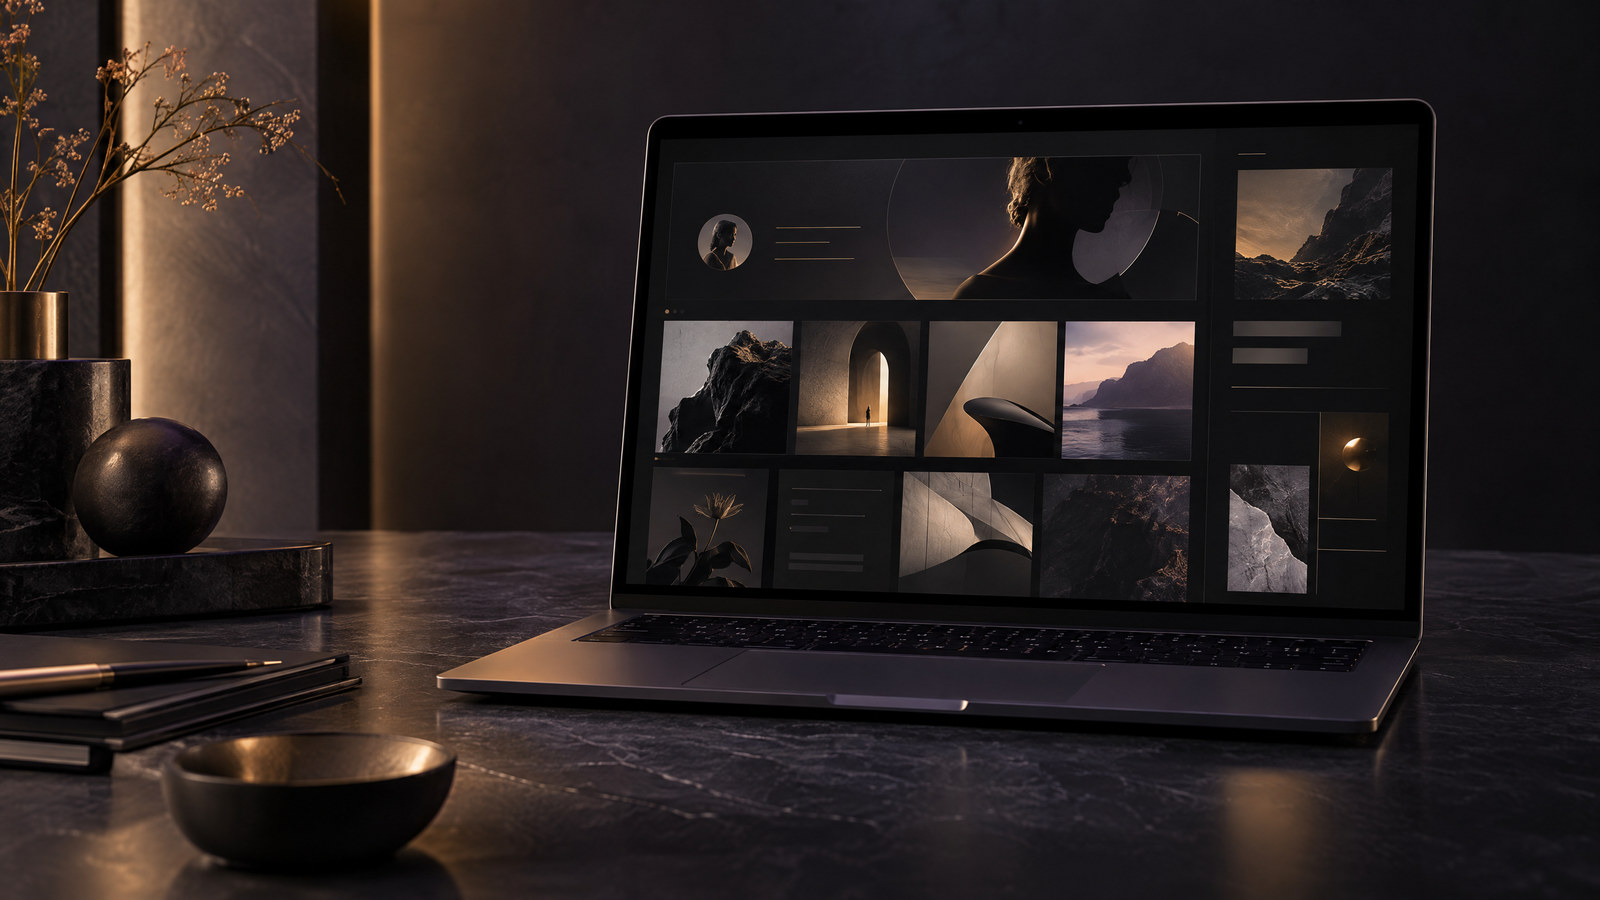
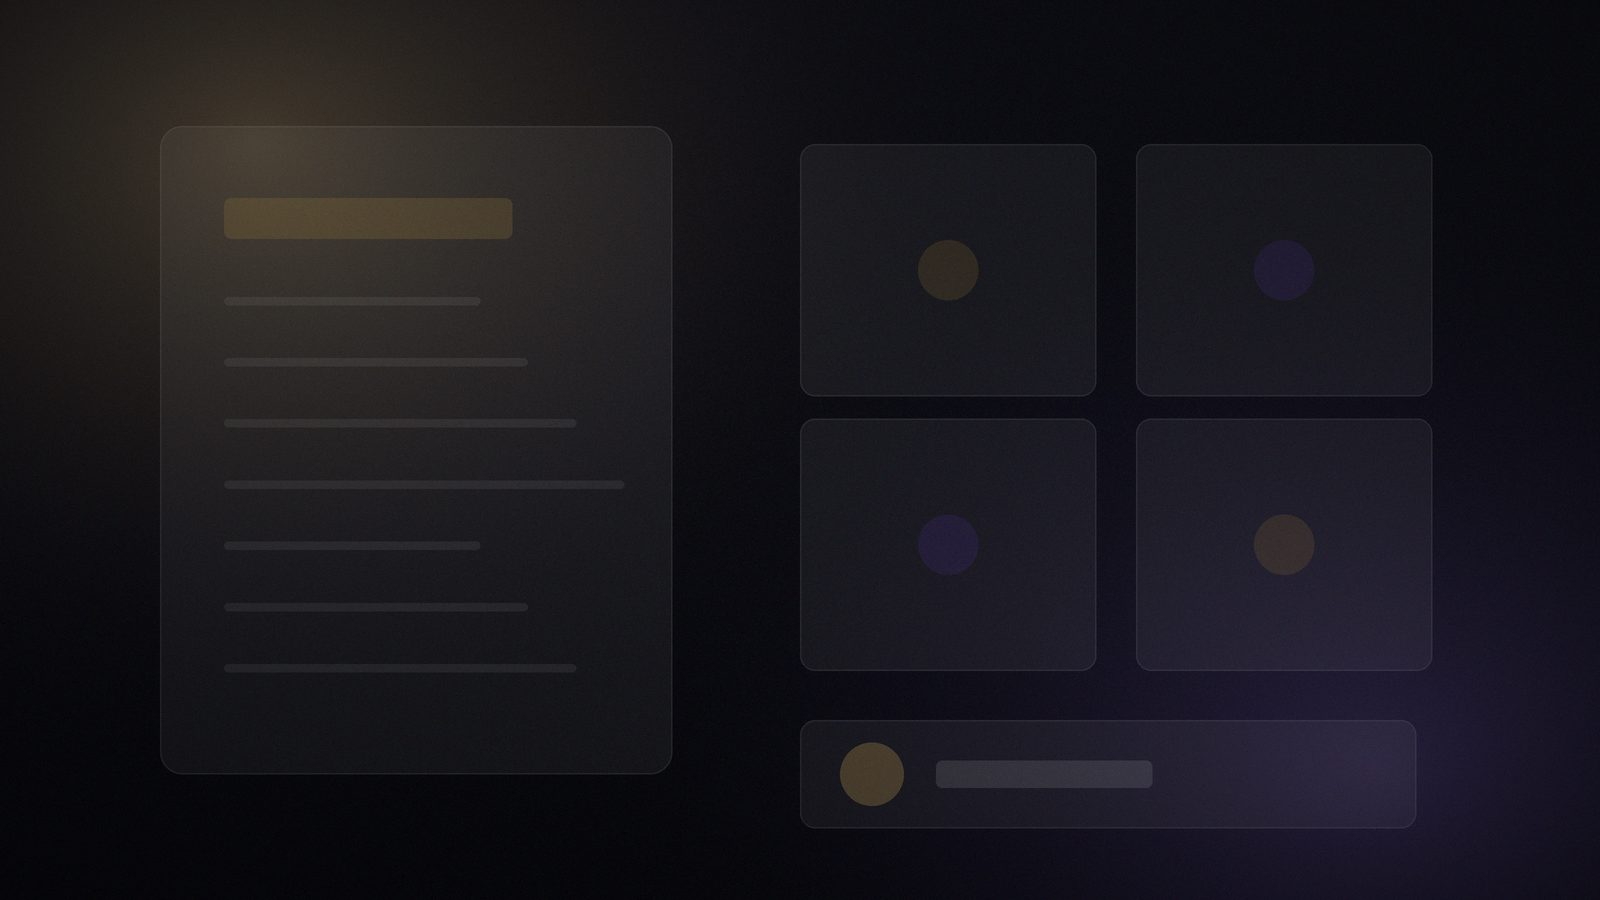
Complete digital-product thumbnail refresh (final 4) + fix storefront card art
- add pharmacy-web, youssef-guba, code-canvas-dev thumbs and the
  nile-pharma storefront cover in the same dark-glass series
- storefront thumbnail moves to nile-pharma-storefront-thumb.jpg so
  card-art.ts stops remapping it to the design brand crop (npf-card.jpg)
- all 14 digital products now carry refreshed 1600x900 thumbnails

diff --git a/features/work/projects.data.ts b/features/work/projects.data.ts
@@ -209,7 +209,7 @@ export const PROJECTS: readonly Project[] = [
     outcome: "Bilingual storefront with separate CMS and transactional commerce layers",
     outcomeAr: "متجر ثنائي اللغة يفصل إدارة المحتوى عن محرك التجارة والمعاملات",
     year: "2026",
-    thumbnail: "/images/work/nile-pharma.jpg",
+    thumbnail: "/images/work/nile-pharma-storefront-thumb.jpg",
     hasCaseStudy: true,
     isUiUx: true,
     liveUrl: "https://nile-vercel-seven.vercel.app/ar",
